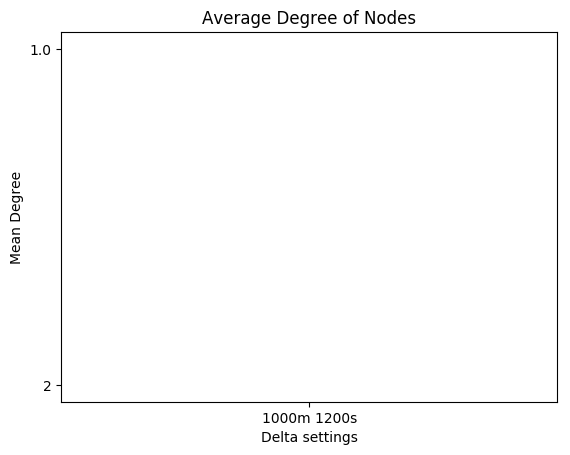
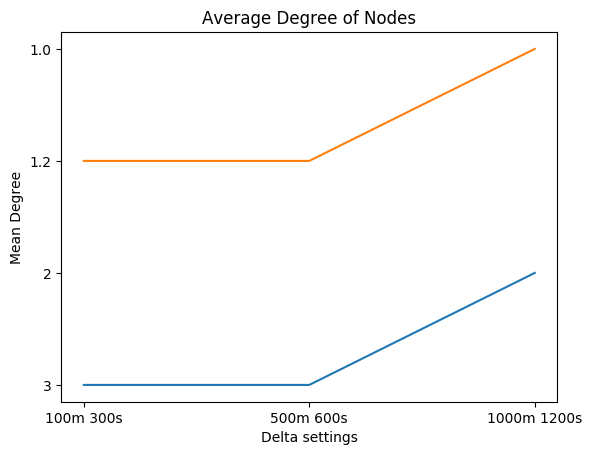
Refactored to support synthetic data when no results were found yet. Points classes now in points.py

diff --git a/proj.py b/proj.py
@@ -1,72 +1,9 @@
-import datetime
-
-import pytz
-import numpy as np
-
-from math import radians, cos, sin, asin, sqrt
 from itertools import combinations
 
 from app.lib.data_serializer import DataSerializer
-from app.lib.datasets import GeolifeTrajectories
+from app.lib.datasets import GeolifeData
 from app.lib.graph import grapher, save_results
-
-
-class TrajectoryPoint:
-    def __init__(self, pnt, uid=None):
-        self.pnt = pnt
-        self.uid = uid
-        self.lat = pnt[0]
-        self.lon = pnt[1]
-        self.alt = pnt[3]
-        self.days = pnt[4]
-        self.datetime = (datetime.datetime(1899, 12, 30, tzinfo=pytz.utc) + datetime.timedelta(days=self.days))
-        self.t = self.datetime.timestamp()
-        self.t2 = (self.days * 24 * 60 * 60)
-
-    def __str__(self):
-        return '[lat: {}  lon: {}  alt: {}  time: {}]'.format(self.lat, self.lon, self.alt, self.t)
-
-
-class ContactPoint(TrajectoryPoint):
-    def __init__(self, p1, p2, traj_plt_p1, traj_plt_p2):
-        TrajectoryPoint.__init__(self, [0, 0, 0, 0, 0])
-        self.p1 = p1
-        self.p2 = p2
-        self.traj_plt_p1 = traj_plt_p1
-        self.traj_plt_p2 = traj_plt_p2
-        self.lat = np.mean([p1.lat, p2.lat])
-        self.lon = np.mean([p1.lon, p2.lon])
-        self.alt = np.mean([p1.alt, p2.alt])
-        self.t = np.mean([p1.t, p2.t])
-        self.__dist_apart = None
-
-    def dist_apart(self):
-        if self.__dist_apart is None:
-            # convert decimal degrees to radians
-            lon1, lat1, lon2, lat2 = map(radians, [self.p1.lon, self.p1.lat, self.p2.lon, self.p2.lat])
-            # haversine formula
-            dlon = lon2 - lon1
-            dlat = lat2 - lat1
-            a = sin(dlat / 2) ** 2 + cos(lat1) * cos(lat2) * sin(dlon / 2) ** 2
-            c = 2 * asin(sqrt(a))
-            # Radius of earth in kilometers is 6371
-            km = 6371 * c
-            self.__dist_apart = km * 1000
-        return self.__dist_apart
-
-    def __str__(self):
-        return '[user_i: {}  user_j: {}  dist: {}  tdelta: {}  avg_time: {}  avg_lat: {}  avg_lon: {}  avg_alt: {}  ' \
-               'traj_i: {}  traj_j: {}]'.format(
-                self.p1.uid,
-                self.p2.uid,
-                self.dist_apart(),
-                abs(self.p1.t - self.p2.t),
-                self.t,
-                self.lat,
-                self.lon,
-                self.alt,
-                self.traj_plt_p1,
-                self.traj_plt_p2)
+from app.lib.points import TrajectoryPoint, ContactPoint
 
 
 def detect_contact_points(user_i, user_j, data, delta):
@@ -238,33 +175,38 @@ def generate_contact_points(data, deltas):
 
 
 def generate_graph(data, deltas):
-    ignore_cache = False
     largest_comps, ave_degrees = [], []
     results_delta = []
     for d in deltas:
         ds, dt = d
         contact_data = load_contacts(ds, dt)
+        contacts = []
         if contact_data:
             contacts = contact_data['contacts']
             total = contact_data['total']
             print('Loaded {} pickled contacts for ds={}, dt={}\n\n'.format(total, ds, dt))
 
-            if not grapher(contacts):
-                return
-            largest_component, ave_degree = grapher(contacts)
-            largest_comps.append(largest_component)
-            ave_degrees.append(ave_degree)
-            results_delta.append('{}m {}s'.format(ds, dt))
+            contacts = list(map(lambda c: c.tuplize(), contacts))
+        else:
+            contacts = [
+                ('003', '004', 40.007548, 116.32172650000001, 1224785351.0000029),
+                ('002', '005', 45.007548, 16.32172650000001, 14785351.0000029),
+                ('002', '001', 45.007548, 16.32172650000001, 14785351.0000029)
+            ]
+        largest_component, ave_degree = grapher(contacts)
+        largest_comps.append(largest_component)
+        ave_degrees.append(ave_degree)
+        results_delta.append('{}m {}s'.format(ds, dt))
     save_results(largest_comps, ave_degrees, results_delta)
 
 
 def main():
-    data = GeolifeTrajectories().load()
+    data = GeolifeData().load()
 
     # [ds, dt] ==> [meters from each other,  seconds apart]
     deltas = []
-    # deltas.append([100, 300])
-    # deltas.append([500, 600])
+    deltas.append([100, 300])
+    deltas.append([500, 600])
     deltas.append([1000, 1200])
 
     # generate_contact_points(data, deltas)

diff --git a/app/lib/points.py b/app/lib/points.py
@@ -1,0 +1,67 @@
+import datetime
+from math import radians, cos, sin, asin, sqrt
+
+import numpy as np
+import pytz
+
+
+class TrajectoryPoint:
+    def __init__(self, pnt, uid=None):
+        self.pnt = pnt
+        self.uid = uid
+        self.lat = pnt[0]
+        self.lon = pnt[1]
+        self.alt = pnt[3]
+        self.days = pnt[4]
+        self.datetime = (datetime.datetime(1899, 12, 30, tzinfo=pytz.utc) + datetime.timedelta(days=self.days))
+        self.t = self.datetime.timestamp()
+        self.t2 = (self.days * 24 * 60 * 60)
+
+    def __str__(self):
+        return '[lat: {}  lon: {}  alt: {}  time: {}]'.format(self.lat, self.lon, self.alt, self.t)
+
+
+class ContactPoint(TrajectoryPoint):
+    def __init__(self, p1, p2, traj_plt_p1, traj_plt_p2):
+        TrajectoryPoint.__init__(self, [0, 0, 0, 0, 0])
+        self.p1 = p1
+        self.p2 = p2
+        self.traj_plt_p1 = traj_plt_p1
+        self.traj_plt_p2 = traj_plt_p2
+        self.lat = np.mean([p1.lat, p2.lat])
+        self.lon = np.mean([p1.lon, p2.lon])
+        self.alt = np.mean([p1.alt, p2.alt])
+        self.t = np.mean([p1.t, p2.t])
+        self.__dist_apart = None
+
+    def dist_apart(self):
+        if self.__dist_apart is None:
+            # convert decimal degrees to radians
+            lon1, lat1, lon2, lat2 = map(radians, [self.p1.lon, self.p1.lat, self.p2.lon, self.p2.lat])
+            # haversine formula
+            dlon = lon2 - lon1
+            dlat = lat2 - lat1
+            a = sin(dlat / 2) ** 2 + cos(lat1) * cos(lat2) * sin(dlon / 2) ** 2
+            c = 2 * asin(sqrt(a))
+            # Radius of earth in kilometers is 6371
+            km = 6371 * c
+            self.__dist_apart = km * 1000
+        return self.__dist_apart
+
+    def tuplize(self):
+        return self.p1.uid, self.p2.uid, self.lat, self.lon, self.alt
+
+    def __str__(self):
+        return '[user_i: {}  user_j: {}  dist: {}  tdelta: {}  avg_time: {}  avg_lat: {}  avg_lon: {}  avg_alt: {}  ' \
+               'traj_i: {}  traj_j: {}]'.format(
+            self.p1.uid,
+            self.p2.uid,
+            self.dist_apart(),
+            abs(self.p1.t - self.p2.t),
+            self.t,
+            self.lat,
+            self.lon,
+            self.alt,
+            self.traj_plt_p1,
+            self.traj_plt_p2
+        )

diff --git a/app/lib/datasets.py b/app/lib/datasets.py
@@ -9,7 +9,7 @@ import pytz
 from app.lib.pipeline_ops import PipelineOp
 
 
-class GeolifeTrajectories(PipelineOp):
+class GeolifeData(PipelineOp):
     def __init__(self):
         PipelineOp.__init__(self)
         self.__users = []
@@ -35,7 +35,9 @@ class GeolifeTrajectories(PipelineOp):
     def __load_trajectories(self):
         trajectories = self.__trajectories
         if len(trajectories) <= 0:
-            self.__users = np.sort(np.array([uid for uid in os.listdir('app/data/geolife/Data') if re.findall('\d{3}', uid)]))
+            self.__users = np.sort(np.array([
+                uid for uid in os.listdir('app/data/geolife/Data') if re.findall('\d{3}', uid)
+            ]))
             for uid in self.__users:
                 trajectories[uid] = trajectories.get(uid, self.load_user_trajectory_points(uid))
             self.__trajectories = trajectories
@@ -46,8 +48,10 @@ class GeolifeTrajectories(PipelineOp):
             for point in self.load_trajectory_plt_points(trajectory_plt):
                 yield (point, trajectory_plt)
 
-    def load_user_trajectory_plts(self, uid):
+    @staticmethod
+    def load_user_trajectory_plts(uid):
         return np.sort(glob.glob('app/data/geolife/Data/{}/Trajectory/*.plt'.format(uid)))
 
-    def load_trajectory_plt_points(self, trajectory_plt):
+    @staticmethod
+    def load_trajectory_plt_points(trajectory_plt):
         return np.genfromtxt(trajectory_plt, delimiter=',', dtype=float, skip_header=6, usecols=range(0, 5))

diff --git a/app/lib/graph.py b/app/lib/graph.py
@@ -7,11 +7,8 @@ def grapher(combos):
         print("NO NODES")
         return
     graph = nx.Graph()
-    a_combos = [('003', '004', 40.007548, 116.32172650000001, 1224785351.0000029),
-                         ('002', '005', 45.007548, 16.32172650000001, 14785351.0000029),
-                         ('002', '001', 45.007548, 16.32172650000001, 14785351.0000029)]
     for c in combos:
-        graph.add_edge(c.p1.uid, c.p2.uid, weight=1)
+        graph.add_edge(c[0], c[1], weight=1)
     # print("Number of Nodes: " + str(G.number_of_nodes()))
     # print("Number of edges: " + str(G.number_of_edges()))
     # print("Node degrees: " + str(G.degree()))
